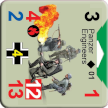
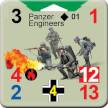
set units up, and reorder angles

diff --git a/core/src/ch/asynk/gdx/boardgame/Orientation.java b/core/src/ch/asynk/gdx/boardgame/Orientation.java
@@ -29,15 +29,19 @@ public enum Orientation
 
     public static void setValues(int [] angles)
     {
-        DEFAULT.r = angles[0];
-        E.r  = angles[1];
-        NE.r = angles[2];
-        N.r  = angles[3];
-        NW.r = angles[4];
-        W.r  = angles[5];
-        SW.r = angles[6];
-        S.r  = angles[7];
-        SE.r = angles[8];
+        for (int i = 0; i < angles.length; i++) {
+            if (angles[i] < 0 && angles[i] != -1)
+                angles[i] += 360;
+        }
+        E.r  = angles[0];
+        NE.r = angles[1];
+        N.r  = angles[2];
+        NW.r = angles[3];
+        W.r  = angles[4];
+        SW.r = angles[5];
+        S.r  = angles[6];
+        SE.r = angles[7];
+        DEFAULT.r = angles[8];
     }
 
     public int allBut()

diff --git a/core/src/ch/asynk/gdx/boardgame/boards/HexBoard.java b/core/src/ch/asynk/gdx/boardgame/boards/HexBoard.java
@@ -38,8 +38,9 @@ public class HexBoard implements Board
     //   bottom left is the left vertice of the most bottom-left horizontal hex side of the map
 
     // [0] is 0° facing East
-    private static final int [] vAngles = {60,  0, 60, -1, 120, 180, 240,  -1, 300};
-    private static final int [] hAngles = {90, -1, 30, 90, 150,  -1, 210, 270, 330};
+    // [8] is default
+    private static final int [] vAngles = {-90, -30, -1, 30, 90, 150,  -1, 210, -30};
+    private static final int [] hAngles = { -1, -60,  0, 60, -1, 120, 180, 240, -60};
 
     public HexBoard(int cols, int rows, float side, float x0, float y0, BoardFactory.BoardOrientation boardOrientation)
     {

diff --git a/core/src/ch/asynk/gdx/boardgame/boards/TriangleBoard.java b/core/src/ch/asynk/gdx/boardgame/boards/TriangleBoard.java
@@ -19,8 +19,9 @@ public class TriangleBoard implements Board
     private final float h43;    // 4/3 height of the triangle
 
     // [0] is 0° facing East
-    private static final int [] vAngles = {60,  0, 60, -1, 120, 180, 240,  -1, 300};
-    private static final int [] hAngles = {30, -1, 30, 90, 150,  -1, 210, 270, 330};
+    // [8] is default
+    private static final int [] vAngles = {-1, 30, 90, 150,  -1, 210, 270, 330, 30};
+    private static final int [] hAngles = { 0, 60, -1, 120, 180, 240,  -1, 300, 60};
 
     public TriangleBoard(int cols, int rows, float side, float x0, float y0, BoardFactory.BoardOrientation boardOrientation)
     {

diff --git a/core/src/ch/asynk/gdx/boardgame/boards/SquareBoard.java b/core/src/ch/asynk/gdx/boardgame/boards/SquareBoard.java
@@ -11,7 +11,8 @@ public class SquareBoard implements Board
     private final float y0;     // bottom left y offset
 
     // [0] is 0° facing East
-    private static final int [] angles = {90, 0, -1, 90, -1, 180, -1, 270, -1, 0};
+    // [8] is default
+    private static final int [] angles = {0, -1, 90, -1, 180, -1, 270, -1, 0, 90};
 
     public SquareBoard(int cols, int rows, float side, float x0, float y0)
     {
